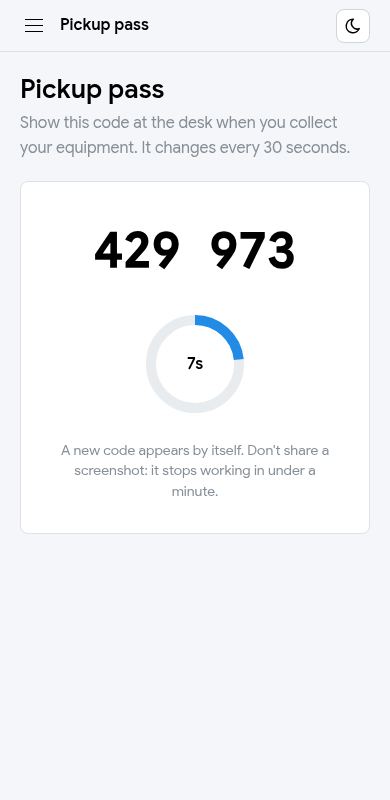
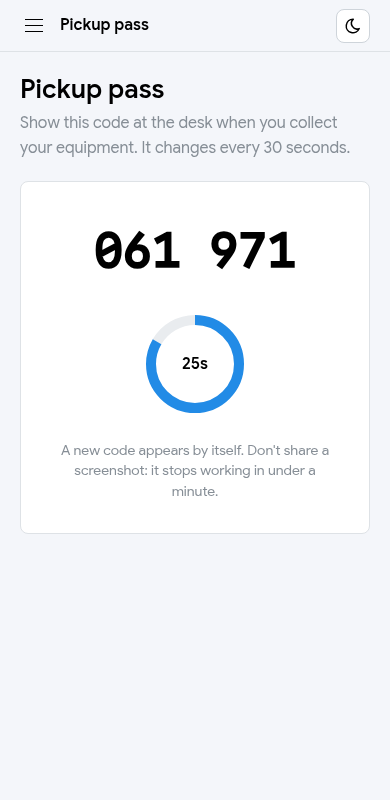
fix(frontend): hide an expired pickup code after a failed refresh

diff --git a/frontend/src/pages/PickupPassPage.tsx b/frontend/src/pages/PickupPassPage.tsx
@@ -1,5 +1,5 @@
 import { Button, Center, Loader, Paper, RingProgress, Stack, Text } from '@mantine/core'
-import { useEffect, useRef, useState } from 'react'
+import { useEffect, useState } from 'react'
 import { fetchPickupPass, type PickupPass } from '../api/pickupPass.ts'
 import ErrorAlert from '../components/ErrorAlert.tsx'
 import PageHeader from '../components/PageHeader.tsx'
@@ -13,13 +13,19 @@ function spaced(code: string): string {
 
 export default function PickupPassPage() {
   const [pass, setPass] = useState<PickupPass | null>(null)
-  const [secondsLeft, setSecondsLeft] = useState(0)
-  // The tick reads the seconds from here: a setState updater must not start a fetch.
-  const secondsRef = useRef(0)
+  // When the shown code stops working, as a clock time. The ring is computed from it, so the countdown
+  // cannot drift and there is no second counter to keep in step.
+  const [expiresAt, setExpiresAt] = useState(0)
+  const [now, setNow] = useState(() => Date.now())
   const [loading, setLoading] = useState(true)
   const [error, setError] = useState<unknown>(null)
   // Adding 1 asks the backend for a code again (timer at 0, tab visible again, "Try again").
   const [reloadToken, setReloadToken] = useState(0)
+
+  function reload() {
+    setError(null) // a retry must not show the old alert next to the new request
+    setReloadToken((t) => t + 1)
+  }
 
   // Every change of reloadToken fetches one code. "ignore" drops the answer of an older request.
   useEffect(() => {
@@ -28,12 +34,15 @@ export default function PickupPassPage() {
       .then((fresh) => {
         if (ignore) return
         setPass(fresh)
-        secondsRef.current = fresh.validForSeconds
-        setSecondsLeft(fresh.validForSeconds)
-        setError(null)
+        setExpiresAt(Date.now() + fresh.validForSeconds * 1000)
+        setNow(Date.now())
       })
       .catch((err) => {
-        if (!ignore) setError(err)
+        if (ignore) return
+        // Bug fixed: after a failed refresh the old code stayed on screen with "0s", so a student could
+        // show an expired code at the desk. Fix: drop the code, so only the error and "Try again" show.
+        setPass(null)
+        setError(err)
       })
       .finally(() => {
         if (!ignore) setLoading(false)
@@ -44,27 +53,25 @@ export default function PickupPassPage() {
   }, [reloadToken])
 
   // One tick per second. At 0 the code is already old on the backend, so ask for the next one.
-  // After a failed load the old code stays at 0 and the timer stops: "Try again" asks once more.
   useEffect(() => {
     if (!pass) return
     const timer = setInterval(() => {
-      if (secondsRef.current <= 1) {
+      const current = Date.now()
+      setNow(current)
+      if (current >= expiresAt) {
         clearInterval(timer)
-        setSecondsLeft(0)
-        setReloadToken((t) => t + 1)
-      } else {
-        secondsRef.current -= 1
-        setSecondsLeft(secondsRef.current)
+        reload()
       }
     }, 1000)
     return () => clearInterval(timer)
-  }, [pass])
+    // reload only calls state setters, which never change
+  }, [pass, expiresAt])
 
   // A hidden tab (phone locked) has its timers paused or slowed, so the shown code may be old when
   // the student comes back: fetch a fresh one at once.
   useEffect(() => {
     function onVisibility() {
-      if (document.visibilityState === 'visible') setReloadToken((t) => t + 1)
+      if (document.visibilityState === 'visible') reload()
     }
     document.addEventListener('visibilitychange', onVisibility)
     return () => document.removeEventListener('visibilitychange', onVisibility)
@@ -72,8 +79,10 @@ export default function PickupPassPage() {
 
   function retry() {
     setLoading(true)
-    setReloadToken((t) => t + 1)
+    reload()
   }
+
+  const secondsLeft = Math.max(Math.ceil((expiresAt - now) / 1000), 0)
 
   return (
     <>

diff --git a/frontend/src/pages/ReservationsDeskParts.tsx b/frontend/src/pages/ReservationsDeskParts.tsx
@@ -1,23 +1,29 @@
 import { Alert, Button, Modal, PinInput, Stack, Text } from '@mantine/core'
 import { IconAlertTriangle, IconCircleCheckFilled } from '@tabler/icons-react'
-import { useState } from 'react'
+import { useEffect, useRef, useState } from 'react'
 import { ApiError } from '../api/client.ts'
 import { errorMessage } from '../api/errorMessages.ts'
 import { verifyPickupPass, type VerifiedStudent } from '../api/pickupPass.ts'
 
 type Props = {
   userId: number
-  opened: boolean
   onClose: () => void
   onVerified: (student: VerifiedStudent) => void
 }
 
 // The admin types the 6 digits the student shows. The backend answers with the student's name,
 // so the desk knows the person in front of them owns the booking (the Student column only has an id).
-export function VerifyStudentDialog({ userId, opened, onClose, onVerified }: Props) {
+export function VerifyStudentDialog({ userId, onClose, onVerified }: Props) {
   const [value, setValue] = useState('')
   const [busy, setBusy] = useState(false)
   const [error, setError] = useState<string | null>(null)
+  const firstBox = useRef<HTMLInputElement>(null)
+
+  // The boxes are disabled while checking, which drops the focus: after a wrong code put it back on
+  // the first box so the admin can type again at once.
+  useEffect(() => {
+    if (!busy && error) firstBox.current?.focus()
+  }, [busy, error])
 
   async function submit(raw: string) {
     // A pasted "493 027" arrives with the space; only the digits count.
@@ -48,7 +54,15 @@ export function VerifyStudentDialog({ userId, opened, onClose, onVerified }: Pro
   }
 
   return (
-    <Modal opened={opened} onClose={close} title={`Verify student #${userId}`} centered>
+    <Modal
+      opened
+      onClose={close}
+      closeOnClickOutside={!busy}
+      closeOnEscape={!busy}
+      withCloseButton={!busy}
+      title={`Verify student #${userId}`}
+      centered
+    >
       <Stack align="center">
         <Text size="sm" c="dimmed" ta="center">
           Ask the student for the 6-digit code on their Pickup pass page.
@@ -58,6 +72,7 @@ export function VerifyStudentDialog({ userId, opened, onClose, onVerified }: Pro
           type="number"
           oneTimeCode
           autoFocus
+          ref={firstBox}
           value={value}
           onChange={(next) => {
             setValue(next)
@@ -72,7 +87,7 @@ export function VerifyStudentDialog({ userId, opened, onClose, onVerified }: Pro
             {error}
           </Alert>
         )}
-        <Button variant="default" onClick={close}>
+        <Button variant="default" onClick={close} disabled={busy}>
           Cancel
         </Button>
       </Stack>

diff --git a/frontend/src/pages/ReservationsDeskPage.tsx b/frontend/src/pages/ReservationsDeskPage.tsx
@@ -267,7 +267,10 @@ export default function ReservationsDeskPage() {
       // Only the id until the desk verifies the student's pickup code: there is no admin endpoint
       // to look up another user's name.
       header: 'Student',
-      render: (r) => (verified[r.userId] ? <VerifiedMark student={verified[r.userId]} /> : <Text>Student #{r.userId}</Text>),
+      render: (r) => {
+        const student = verified[r.userId]
+        return student ? <VerifiedMark student={student} /> : <Text>Student #{r.userId}</Text>
+      },
     },
     {
       header: 'Status',
@@ -385,7 +388,6 @@ export default function ReservationsDeskPage() {
       {verifyingUserId !== null && (
         <VerifyStudentDialog
           userId={verifyingUserId}
-          opened
           onClose={() => setVerifyingUserId(null)}
           onVerified={(student) => setVerified((prev) => ({ ...prev, [student.userId]: student }))}
         />

diff --git a/documentation/Necula_Matei/52-pickup-pass-pages.md b/documentation/Necula_Matei/52-pickup-pass-pages.md
@@ -36,17 +36,18 @@
 
 | Moment | What happens | Why |
 |---|---|---|
-| Open | One `GET /users/me/pickup-pass`; seconds copied from `validForSeconds` | The backend decides when a code ends, the page only counts |
-| Every second | A 1 s interval lowers a ref and the state | The ref is read inside the tick, so no fetch starts inside a `setState` updater (React may run updaters twice) |
-| Reaches 0 | The timer stops and `reloadToken` goes up, which refetches | A new `pass` object restarts the timer |
+| Open | One `GET /users/me/pickup-pass`; `expiresAt = now + validForSeconds` | The backend decides when a code ends, the page only counts |
+| Every second | A 1 s interval stores the current time; the ring shows `expiresAt - now` | One clock, so the countdown cannot drift and there is no second counter |
+| Reaches 0 | The timer stops and the page refetches (a new code restarts it) | The old code is already dead on the backend |
 | Tab hidden then visible | `visibilitychange` refetches | Browsers slow down timers in hidden tabs, the number could be old |
-| Error | `ErrorAlert` + "Try again"; the timer stays stopped | No retry loop against a down backend |
+| Error | The code is removed; only `ErrorAlert` + "Try again" show; each new request clears the old alert | Bug fixed: an expired code used to stay on screen with "0s" after a failed refresh, so a student could show it at the desk |
 | Leave the page | Interval and listener are removed; a late answer is ignored (`ignore` flag) | No updates on an unmounted page |
 
 ### Verify dialog
 
 - `PinInput length={6} type="number"`; whitespace is stripped before sending, so a pasted `493 027` works.
 - The check runs in `onChange` when 6 digits are there. `onComplete` did not fire for a pasted value in the manual test.
+- While a check runs, Cancel and the close button are disabled, so a late success cannot mark a student the admin already cancelled. After a wrong code the focus returns to the first box.
 - `PICKUP_CODE_INVALID` shows the text above and empties the input; any other error goes through `errorMessage`.
 - `verified` lives only in the desk page state: it is a convenience for the person at the desk, not a record. The record is the `PICKUP_PASS_VERIFIED` audit row the backend writes.
 
@@ -57,9 +58,11 @@
 | Code refreshes at 0 | A new request after the countdown, a different code |
 | Hidden then visible | Exactly one extra request |
 | Wrong code `000000` | Error shown, input emptied (`pickup-04-invalid.png`) |
+| Backend stopped while the page is open | At 0 the code disappears; only "Request failed with status 502" and "Try again" show |
+| Desk at 390 px | Verify and Check out fit in the card, no sideways scroll (`pickup-05-desk-phone.png`) |
 | Pasted `429 973` (the student's current code) | Dialog closed, "Student One" + green check (`pickup-03-verified.png`) |
 
-Screenshots: `docs/screenshots/pickup-01-pass.png` (390 px wide), `pickup-02-verify-dialog.png`, `pickup-03-verified.png`, `pickup-04-invalid.png`. `npm run lint && npm run build` are clean.
+Screenshots: `docs/screenshots/pickup-01-pass.png` (390 px wide), `pickup-02-verify-dialog.png`, `pickup-03-verified.png`, `pickup-04-invalid.png`, `pickup-05-desk-phone.png`. `npm run lint && npm run build` are clean.
 
 ### Still open
 
